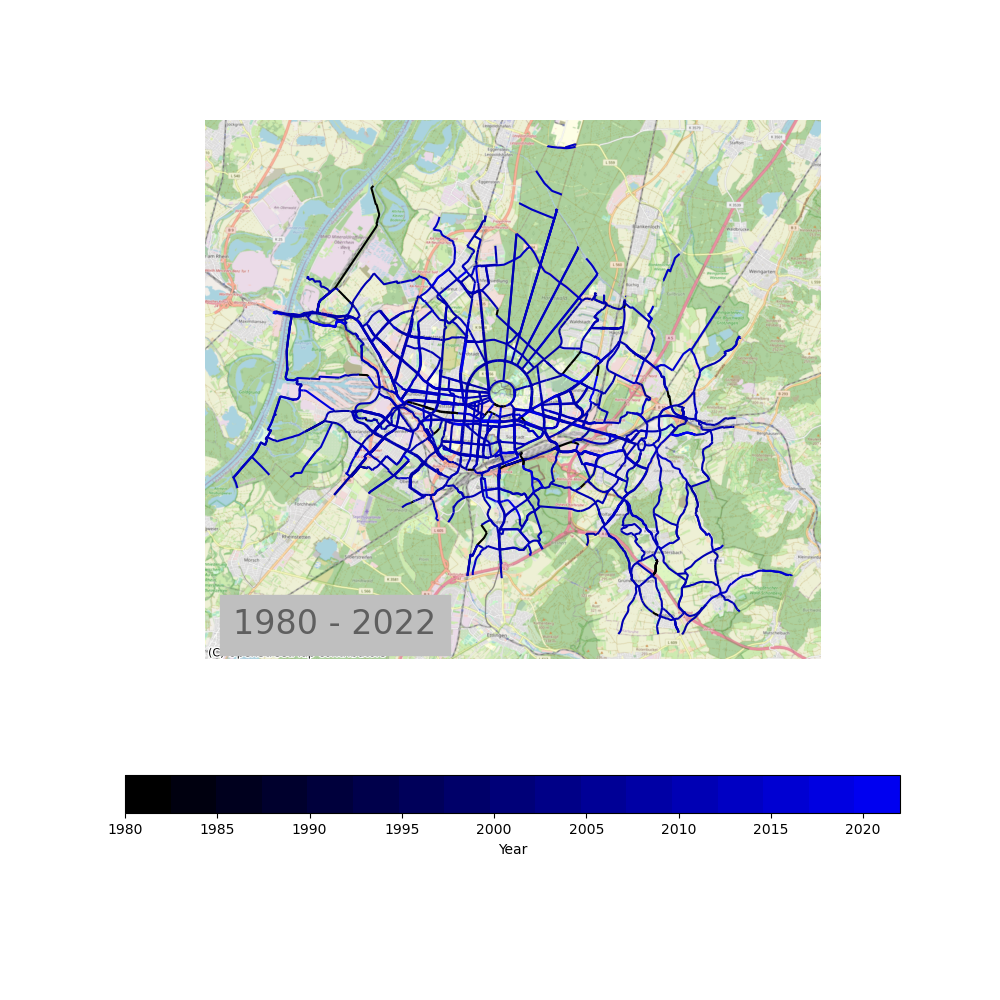
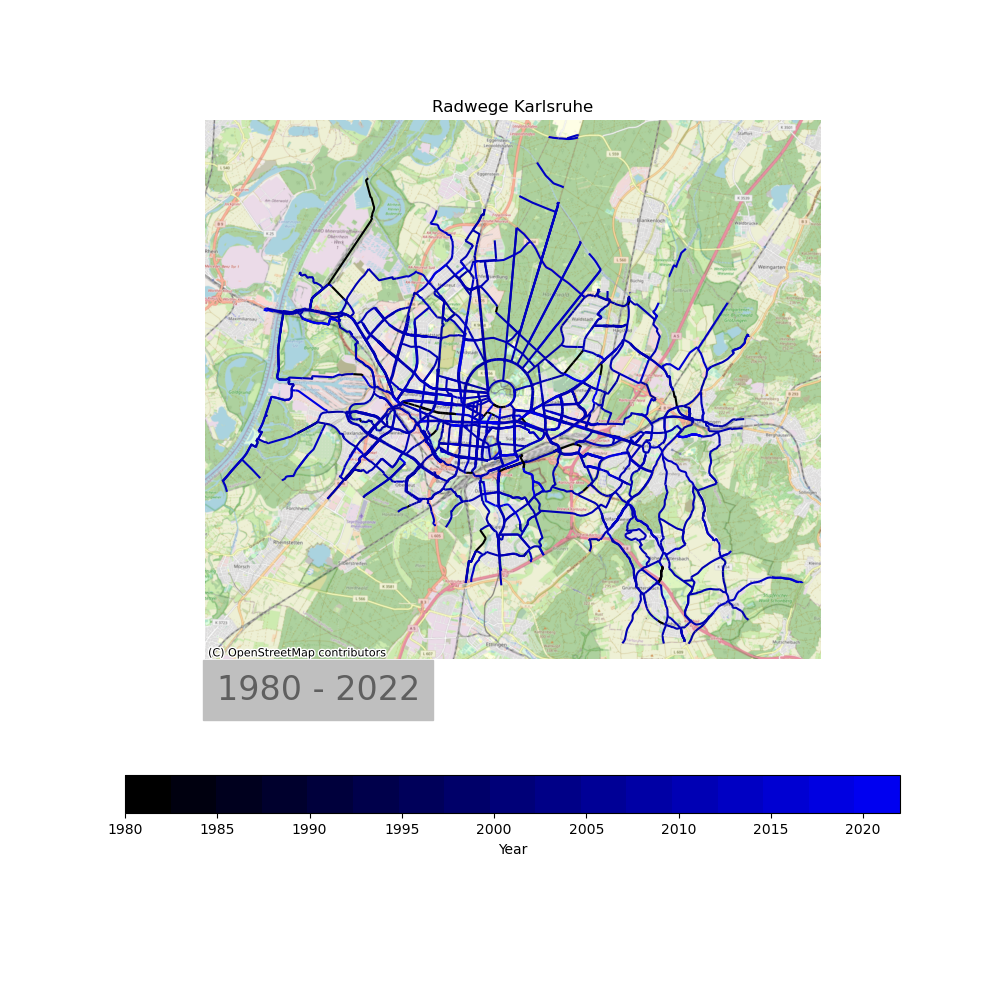
Title

Changed region(s): [[0.186, 0.093, 0.837, 0.744]]

diff --git a/bike_new_ka.py b/bike_new_ka.py
@@ -84,14 +84,28 @@ colorMap = cls.LinearSegmentedColormap.from_list(
 minBounds = edf.geometry.bounds.min()
 maxBounds = edf.geometry.bounds.max()
 
-bounds = [minBounds.minx,minBounds.miny,maxBounds.maxx,maxBounds.maxy]
+width = maxBounds.maxx - minBounds.minx
+height = maxBounds.maxy - minBounds.miny
+
+bounds = [minBounds.minx - int(width*.03),
+          minBounds.miny - int(height*.03),
+          maxBounds.maxx + int(width*.03),
+          maxBounds.maxy + int(height*.03)]
 
 # text pos
-tx = minBounds.minx
-ty = minBounds.miny
+tx = bounds[0] + int(width * .02)
+ty = bounds[1] - int(height * .08)
+
+fig, ax = plt.subplots(1, 1)
+fig.set_dpi(96)
+fig.set_figwidth(10)
+fig.set_figheight(10)
+ax.set_xlim(bounds[0],bounds[2])
+ax.set_ylim(bounds[1],bounds[3])
 
 # changing year to color gives same coloring as in video
-ax = edf.plot("year",
+edf.plot("year",
+         ax = ax,
         cmap = colorMap,
         legend=True,
         legend_kwds={
@@ -114,6 +128,7 @@ ax.axis("off")
 ax.text(tx,ty ,str(years[0]) + " - " + str(years[-1]),
         backgroundcolor='0.75',alpha=.5,
         fontsize=24)
+plt.title('Radwege Karlsruhe')
 ax.figure.savefig(png)
 
 plt.show()
@@ -127,8 +142,8 @@ fig, ax = plt.subplots(1, 1)
 fig.set_dpi(96)
 fig.set_figwidth(10)
 fig.set_figheight(10)
-ax.set_xlim(minBounds.minx, maxBounds.maxx)
-ax.set_ylim(minBounds.miny,maxBounds.maxy)
+ax.set_xlim(bounds[0],bounds[2])
+ax.set_ylim(bounds[1],bounds[3])
 ax.axis("off")
 
 ln, = plt.plot([], [], 'ro')
@@ -151,6 +166,7 @@ def init():
 
     ax.text(tx,ty,lt, fontsize=24)
     cx.add_basemap(ax, crs=edf.crs, source=basemap)
+    plt.title('Radwege Karlsruhe')
     
     print("init done")
     return ln, 

diff --git a/readme.md b/readme.md
@@ -14,6 +14,6 @@ Total length appears to be quite large, needs checking/confirmation
 
 ## Issues
 
- * OSM Contributors copyright text hidden by info text => move away ....
+ * Fixed: OSM Contributors copyright text hidden by info text
  
 
